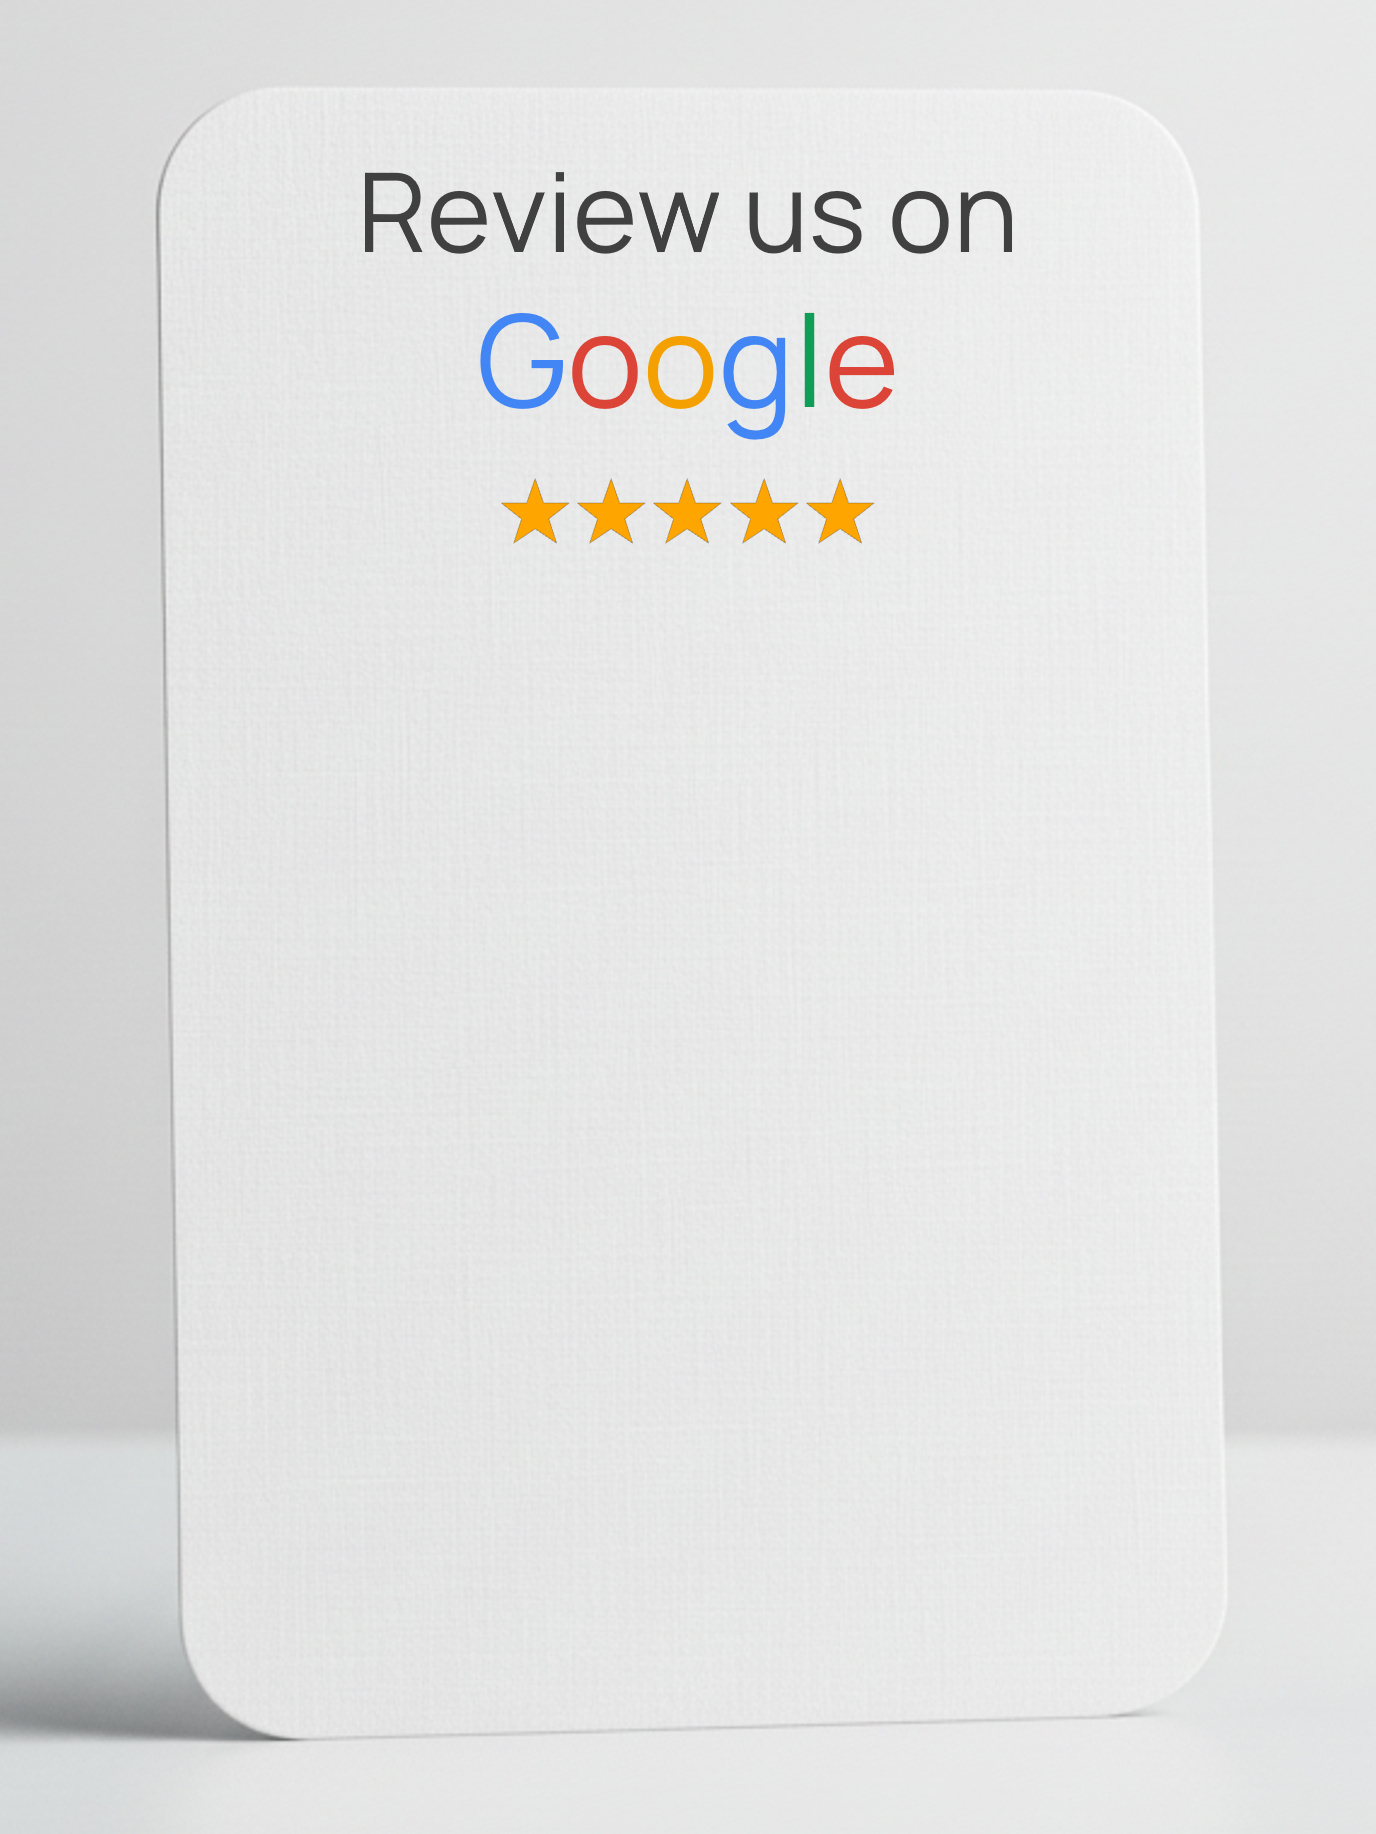
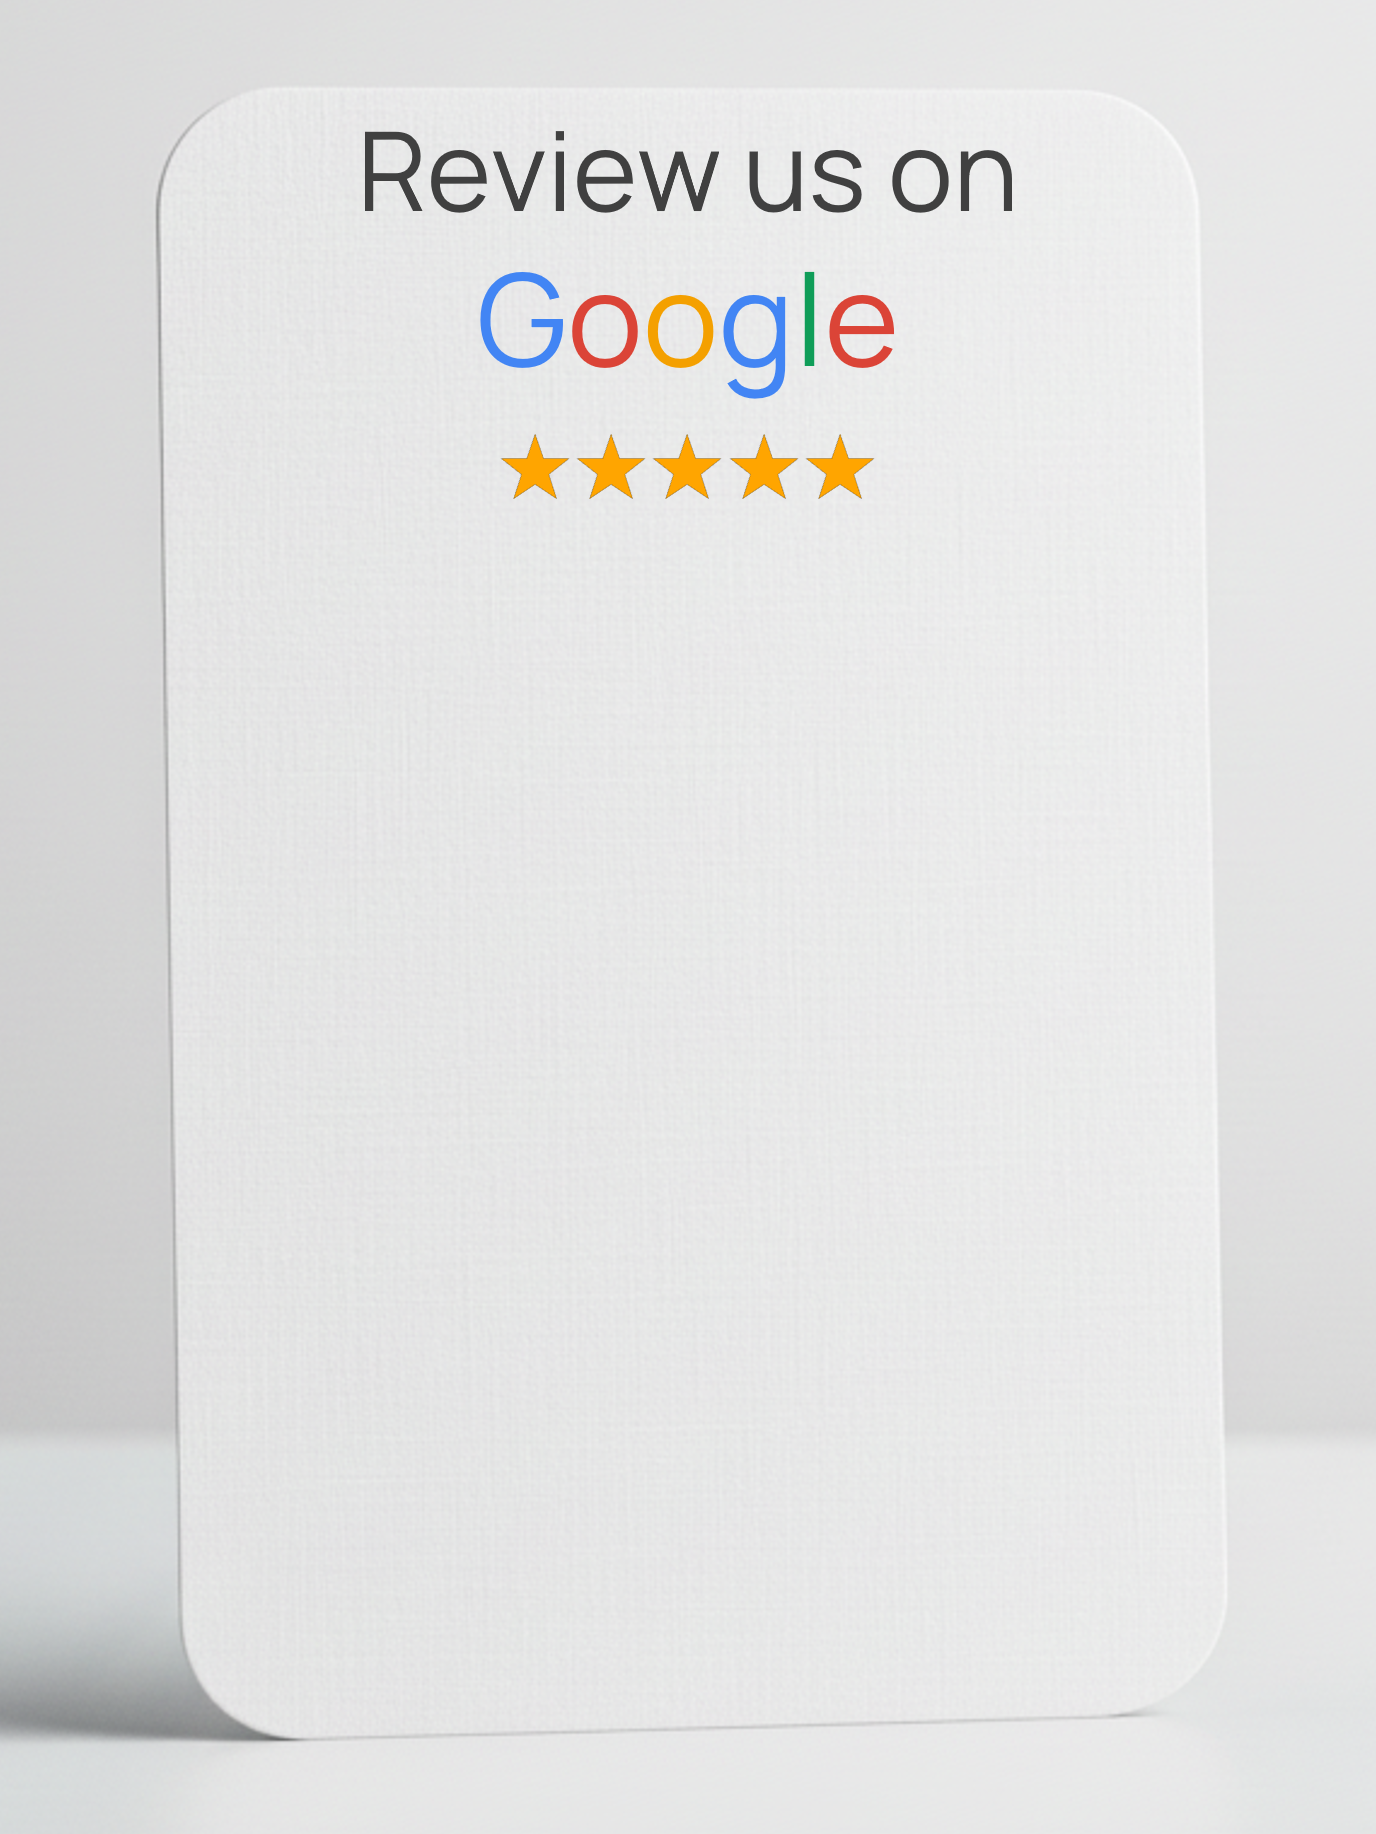
neww

Changed region(s): [[0.25, 0.0622, 0.75, 0.3108]]

diff --git a/samplescript.js b/samplescript.js
@@ -23,7 +23,7 @@ document.addEventListener('DOMContentLoaded', () => {
             return await response.json();
         } catch (error) {
             console.error("Error fetching latest signup data:", error);
-            // Display error to user? Or fallback gracefully?
+            // Display error to user
             document.body.innerHTML = `<p style="color: red; text-align: center; padding: 20px;">Error loading sample data: ${error.message}. Please try again.</p>`;
             return null; // Indicate failure
         }
@@ -48,7 +48,8 @@ document.addEventListener('DOMContentLoaded', () => {
             document.querySelector('.business-name-preview').textContent = nameToDisplay;
         }
 
-        // --- Populate Google Snapshot ---
+        // --- Populate Google Snapshot (Removed from HTML, so code can be removed/commented) ---
+        /*
         const rating = parseFloat(signupData.googleRating); // Use fetched rating
         const reviews = parseInt(signupData.googleReviewCountCurrent || signupData.googleReviewCount || '0', 10); // Use current count if available
 
@@ -58,30 +59,17 @@ document.addEventListener('DOMContentLoaded', () => {
 
         // Logic for snapshot display
         if (!reviews || reviews === 0 || isNaN(reviews)) {
-            if(ratingValueEl) ratingValueEl.textContent = 'No reviews yet';
-            if(starContainer) starContainer.innerHTML = ''; // Hide stars
-            if(reviewCountEl) reviewCountEl.textContent = ''; // Hide count link text
-            if(reviewCountEl && reviewCountEl.tagName === 'A') { /* Disable link styling */
-                reviewCountEl.style.pointerEvents = 'none'; reviewCountEl.style.color = 'inherit'; reviewCountEl.style.textDecoration = 'none';
-            }
+            // ... (Snapshot zero review logic) ...
         } else {
-            if(ratingValueEl && !isNaN(rating)) { ratingValueEl.textContent = rating.toFixed(1); }
-            else if (ratingValueEl) { ratingValueEl.textContent = 'N/A'; }
-
-            if(reviewCountEl) reviewCountEl.textContent = `(${reviews.toLocaleString()})`;
-
-            if (starContainer && !isNaN(rating)) { /* Generate Stars */
-                starContainer.innerHTML = ''; const fullStars = Math.floor(rating);
-                for (let i = 0; i < 5; i++) { if (i < fullStars) { starContainer.innerHTML += '<svg viewBox="0 0 24 24"><title>Star Rating</title><path fill="#fbbc05" d="M12 17.27L18.18 21l-1.64-7.03L22 9.24l-7.19-.61L12 2 9.19 8.63 2 9.24l5.46 4.73L5.82 21z"></path></svg>'; } else { starContainer.innerHTML += '<svg viewBox="0 0 24 24"><title>Empty Star</title><path fill="#d8d8d8" d="M12 17.27L18.18 21l-1.64-7.03L22 9.24l-7.19-.61L12 2 9.19 8.63 2 9.24l5.46 4.73L5.82 21z"></path></svg>'; } }
-            } else if (starContainer) { /* Show empty stars if rating invalid */
-                 starContainer.innerHTML = ''; for (let i = 0; i < 5; i++) { starContainer.innerHTML += '<svg viewBox="0 0 24 24"><title>Empty Star</title><path fill="#d8d8d8" d="M12 17.27L18.18 21l-1.64-7.03L22 9.24l-7.19-.61L12 2 9.19 8.63 2 9.24l5.46 4.73L5.82 21z"></path></svg>'; }
-            }
+            // ... (Snapshot normal logic with rating and stars) ...
         }
+        */
 
         // --- Populate Transposed Text on Card ---
         const nameElement = document.getElementById('live-sample-name');
         const phoneElement = document.getElementById('live-sample-phone');
-        const phoneToDisplay = signupData.customPhoneNumber || ''; // Use saved custom phone if exists
+        // Use saved custom phone if exists, otherwise empty string
+        const phoneToDisplay = signupData.customPhoneNumber || '';
 
         if (nameElement) {
             nameElement.textContent = nameToDisplay;
@@ -93,10 +81,43 @@ document.addEventListener('DOMContentLoaded', () => {
 
         // --- Set Google Review Links ---
         // Uses the correct googlePlaceId from fetched data
-        reviewUrl = `https://search.google.com/local/writereview?placeid=${signupData.googlePlaceId}`;
-        const googleReviewPageLink = document.getElementById('google-review-page-link');
-        if (googleReviewPageLink) {
-            googleReviewPageLink.href = reviewUrl;
+        if (signupData.googlePlaceId) {
+            reviewUrl = `https://search.google.com/local/writereview?placeid=${signupData.googlePlaceId}`;
+            const googleReviewPageLink = document.getElementById('google-review-page-link');
+            if (googleReviewPageLink) {
+                googleReviewPageLink.href = reviewUrl;
+            }
+        } else {
+            console.error("googlePlaceId missing from fetched data. Cannot set review links.");
+            reviewUrl = ''; // Ensure reviewUrl is empty if placeId is missing
+            const googleReviewPageLink = document.getElementById('google-review-page-link');
+            if (googleReviewPageLink) {
+                 googleReviewPageLink.style.pointerEvents = 'none';
+                 googleReviewPageLink.style.color = 'var(--text-light)';
+                 googleReviewPageLink.removeAttribute('href');
+            }
+        }
+
+
+        // --- Set Edit Button Link ---
+        const editButton = document.getElementById('edit-card-btn');
+        if (editButton && signupData) { // Check if button and data exist
+            const builderUrl = new URL('card-builder.html', window.location.origin);
+            // Pass all necessary original data back
+            builderUrl.searchParams.set('placeId', signupData.googlePlaceId);
+            builderUrl.searchParams.set('email', signupData.email); // Use fetched email
+            builderUrl.searchParams.set('googleName', signupData.googlePlaceName);
+            builderUrl.searchParams.set('rating', signupData.googleRating ? signupData.googleRating.toString() : '0');
+            builderUrl.searchParams.set('reviews', signupData.googleReviewCount ? signupData.googleReviewCount.toString() : '0');
+            // Pass the CURRENTLY displayed name and phone back
+            builderUrl.searchParams.set('displayName', nameToDisplay);
+            if (phoneToDisplay) { // Only pass if it exists and isn't empty
+                builderUrl.searchParams.set('phoneNumber', phoneToDisplay);
+            }
+            editButton.href = builderUrl.toString();
+        } else if (editButton) {
+            // Disable button if data fetch failed or button doesn't exist
+            editButton.style.display = 'none';
         }
 
         // --- Re-initialize QR Codes with correct reviewUrl ---
@@ -115,19 +136,20 @@ document.addEventListener('DOMContentLoaded', () => {
     // --- Function to generate QR Codes (now uses global reviewUrl) ---
     const generateQRCodes = () => {
         if (!reviewUrl) {
-             console.error("Cannot generate QR codes: reviewUrl is not set.");
+             console.error("Cannot generate QR codes: reviewUrl is not set (likely missing placeId).");
              return;
         }
         const bonusQrContainer = document.getElementById('bonus-qr-code-container');
         if (bonusQrContainer) {
              bonusQrContainer.innerHTML = '';
              new QRCode(bonusQrContainer, { text: reviewUrl, width: 75, height: 75, colorDark: "#282a2e", colorLight: "#d7d5d1", correctLevel: QRCode.CorrectLevel.H });
-        }
+        } else { console.warn("Bonus QR container not found."); }
+
         const liveSampleQrContainer = document.getElementById('live-sample-qr-code');
         if (liveSampleQrContainer) {
             liveSampleQrContainer.innerHTML = '';
             new QRCode(liveSampleQrContainer, { text: reviewUrl, width: 800, height: 800, colorDark: "#191718", colorLight: "#E6E8E7", correctLevel: QRCode.CorrectLevel.H });
-        }
+        } else { console.warn("Live sample QR container not found."); }
     };
 
     // --- Function to initialize Countdown (now accepts data) ---
@@ -143,17 +165,16 @@ document.addEventListener('DOMContentLoaded', () => {
             if (countdownPromptEl) countdownPromptEl.style.display = 'none';
         };
 
-        if (!fetchedSignupData || !hoursEl || !minutesEl || !secondsEl || !countdownTimerEl || !countdownPromptEl) {
-             console.log("Countdown prerequisites not met (missing data or elements). Hiding timer.");
+        if (!fetchedSignupData || !fetchedSignupData.timestamp || !hoursEl || !minutesEl || !secondsEl || !countdownTimerEl || !countdownPromptEl) {
+             console.log("Countdown prerequisites not met (missing data, timestamp or elements). Hiding timer.");
              hideTimer();
              return;
         }
 
         try {
-            // Use the timestamp from the passed data
             const data = fetchedSignupData;
 
-            if (!data.timestamp || typeof data.timestamp._seconds !== 'number') {
+            if (typeof data.timestamp._seconds !== 'number') {
                 throw new Error('Invalid or missing timestamp format for countdown.');
             }
 
@@ -187,7 +208,6 @@ document.addEventListener('DOMContentLoaded', () => {
     };
 
     // --- Other Init Functions (Tabs, Footer, Checkout, Scroll) ---
-    // (These remain mostly the same, initCheckoutLinks updated slightly)
     const initDashboardTabs = () => { /* ... unchanged ... */
         const tabsContainer = document.querySelector('.dashboard-tabs'); if (!tabsContainer) return; const panels = document.querySelectorAll('.dashboard-panel'); const tabs = document.querySelectorAll('.dashboard-tab'); tabsContainer.addEventListener('click', (e) => { const clickedTab = e.target.closest('.dashboard-tab'); if (!clickedTab || clickedTab.classList.contains('active')) return; tabs.forEach(t => t.classList.remove('active')); panels.forEach(p => p.classList.remove('active')); clickedTab.classList.add('active'); const targetPanelId = clickedTab.dataset.tab; const targetPanel = document.getElementById(targetPanelId); if (targetPanel) targetPanel.classList.add('active'); });
     };
@@ -200,7 +220,7 @@ document.addEventListener('DOMContentLoaded', () => {
             if (!placeId || !emailFromUrl) {
                 console.error("Missing placeId or email for checkout links.");
                 checkoutButtons.forEach(button => { button.style.pointerEvents = 'none'; button.style.opacity = '0.5'; button.textContent = 'Info Missing'; });
-                return;
+                return; // Stop if essential info is missing from URL
             }
             const checkoutUrl = `/checkout.html?placeId=${placeId}&email=${encodeURIComponent(emailFromUrl)}`;
             checkoutButtons.forEach(button => { button.href = checkoutUrl; });

diff --git a/samplestyle.css b/samplestyle.css
@@ -242,6 +242,7 @@ section { padding: 40px 20px; }
      border-bottom: 1px solid var(--border-color);
      min-height: 10px; /* Prevent collapsing */
 }
+/* Snapshot styles (.google-snapshot-card, etc.) removed */
 
 /* --- Live Sample Image Section --- */
 .live-sample-section {
@@ -251,15 +252,15 @@ section { padding: 40px 20px; }
     text-align: center;
 }
 .live-sample-section h2 {
-    margin-bottom: 0.5rem; /* Reduced margin */
+    margin-bottom: 1rem; /* Added slightly more space below heading */
 }
-/* Removed .section-subtext and .scan-action-text styles */
+/* Removed .section-subtext and .scan-action-text */
 
 .live-sample-image-container {
     position: relative; /* NEEDED */
     max-width: 400px;
     width: 70%;
-    margin: 1rem auto 1.5rem auto; /* Adjusted top margin */
+    margin: 0 auto 0.5rem auto; /* Reduced bottom margin */
     box-shadow: 0 8px 25px rgba(0,0,0,0.1);
     border-radius: 8px;
     overflow: hidden;
@@ -280,13 +281,11 @@ section { padding: 40px 20px; }
     transform: translate(-50%, -50%); /* Original Centering */
     background-color: transparent;
     border: none;
-    /* Added flex centering for content */
     display: flex;
     justify-content: center;
     align-items: center;
     padding: 0;
 }
-/* Ensure QR contents scale within the container */
 #live-sample-qr-code canvas,
 #live-sample-qr-code img {
     max-width: 100%;
@@ -300,39 +299,69 @@ section { padding: 40px 20px; }
 /* --- Styles for Transposed Text --- */
 .transposed-text {
     position: absolute;
-    /* --- Widen the container slightly --- */
-    width: 62%; /* Increased from 58.1% */
-    /* --- Adjust left anchor slightly if needed --- */
-    left: 50.6%; /* Keep same anchor or adjust slightly left, e.g., 50% */
-    transform: translateX(-50%); /* Center text box relative to anchor */
+    width: 62%; /* Widened */
+    left: 50.6%; /* Keep anchor or adjust to 50% if needed */
+    transform: translateX(-50%); /* Center */
     font-family: 'Manrope', sans-serif;
-    color: #000000; /* Black text */
+    color: #000000;
     text-align: center;
     overflow: hidden;
     box-sizing: border-box;
-    padding: 0 2px; /* Minimal padding */
+    padding: 0 2px;
 }
 
 #live-sample-name {
     top: 80%; /* Shifted Down */
-    /* --- UPDATED font-size --- */
-    font-size: 16px;
+    font-size: 16px; /* Increased */
     font-weight: 600;
     line-height: 1.3;
-    white-space: normal; /* Allow wrapping */
-    max-height: 2.6em; /* Limit to roughly 2 lines */
+    white-space: normal;
+    max-height: 2.6em;
 }
 
 #live-sample-phone {
     top: 85%; /* Shifted Down */
-    /* --- UPDATED font-size --- */
-    font-size: 14px;
+    font-size: 14px; /* Increased */
     font-weight: normal;
     line-height: 1.2;
-    white-space: nowrap; /* Keep single line */
-    text-overflow: ellipsis; /* Add ... if too long */
+    white-space: nowrap;
+    text-overflow: ellipsis;
 }
 /* --- END Transposed Text Styles --- */
+
+/* --- Edit Button Styling --- */
+.btn-edit-subtle {
+    display: inline-flex;
+    align-items: center;
+    gap: 0.4rem;
+    background-color: transparent;
+    color: var(--text-light);
+    border: 1px solid transparent;
+    padding: 6px 12px;
+    font-size: 0.85rem;
+    font-weight: 500;
+    text-decoration: none;
+    margin-top: 0.5rem; /* Space above */
+    margin-bottom: 1.5rem; /* Space below */
+    transition: all 0.2s ease;
+    border-radius: 6px; /* Added subtle rounding */
+    cursor: pointer; /* Ensure cursor changes */
+}
+
+.btn-edit-subtle svg {
+    width: 14px;
+    height: 14px;
+}
+
+.btn-edit-subtle:hover,
+.btn-edit-subtle:focus {
+    color: var(--primary-color);
+    background-color: #f0f6fc;
+    border-color: var(--border-color);
+    text-decoration: none;
+    outline: none;
+}
+/* --- END Edit Button --- */
 
 
 .live-sample-description {
@@ -340,7 +369,7 @@ section { padding: 40px 20px; }
     color: var(--text-dark);
     line-height: 1.6;
     max-width: 500px;
-    margin: 0 auto 1.5rem auto;
+    margin: 0 auto 1.5rem auto; /* Keep bottom margin */
 }
 .live-sample-cta {
     margin-top: 0;
@@ -469,10 +498,11 @@ footer { background-color: var(--text-dark); color: var(--background-light); tex
     .btn-success { font-size: 1.1rem; padding: 14px 24px; }
     .live-sample-image-container { width: 90%; max-width: 320px;}
 
-    /* Consider mobile adjustments for transposed text if needed */
-    /* .transposed-text { font-size: smaller; ... } */
-    /* #live-sample-name { top: new%; font-size: ... } */
-    /* #live-sample-phone { top: new%; font-size: ... } */
+    /* Mobile adjustments for transposed text might be needed */
+    /* .transposed-text { font-size: ...; } */
+    /* #live-sample-name { top: ...; font-size: ...; } */
+    /* #live-sample-phone { top: ...; font-size: ...; } */
+    /* #live-sample-qr-code might need mobile size adjustments too */
 
     .smart-features-section .section-header { margin-bottom: 2rem; }
     .smart-features-grid { gap: 2rem; margin-bottom: 2rem; }

diff --git a/sample.html b/sample.html
@@ -53,6 +53,13 @@
                     <div id="live-sample-name" class="transposed-text"></div>
                     <div id="live-sample-phone" class="transposed-text"></div>
                 </div>
+                <a href="#" id="edit-card-btn" class="btn btn-edit-subtle">
+                    <svg xmlns="http://www.w3.org/2000/svg" width="16" height="16" fill="currentColor" viewBox="0 0 16 16">
+                        <path d="M15.502 1.94a.5.5 0 0 1 0 .706L14.459 3.69l-2-2L13.502.646a.5.5 0 0 1 .707 0l1.293 1.293zm-1.75 2.456-2-2L4.939 9.21a.5.5 0 0 0-.121.196l-.805 2.414a.25.25 0 0 0 .316.316l2.414-.805a.5.5 0 0 0 .196-.12l6.813-6.814z"/>
+                        <path fill-rule="evenodd" d="M1 13.5A1.5 1.5 0 0 0 2.5 15h11a1.5 1.5 0 0 0 1.5-1.5v-6a.5.5 0 0 0-1 0v6a.5.5 0 0 1-.5.5h-11a.5.5 0 0 1-.5-.5v-11a.5.5 0 0 1 .5-.5H9a.5.5 0 0 0 0-1H2.5A1.5 1.5 0 0 0 1 2.5z"/>
+                    </svg>
+                    Edit Card Details
+                </a>
                 <p class="live-sample-description">
                     Activate your free trial, and we'll ship <strong>250 custom Smart Review Cards</strong> (standard 3.5" x 2" size) <strong>immediately</strong>. Hand them out to customers to easily boost your <strong>5-star <span class="google-word-inline"><span class="google-g-blue">G</span><span class="google-o-red">o</span><span class="google-o-yellow">o</span><span class="google-g-blue">g</span><span class="google-l-green">l</span><span class="google-e-red">e</span></span> reviews</strong>.
                 </p>
